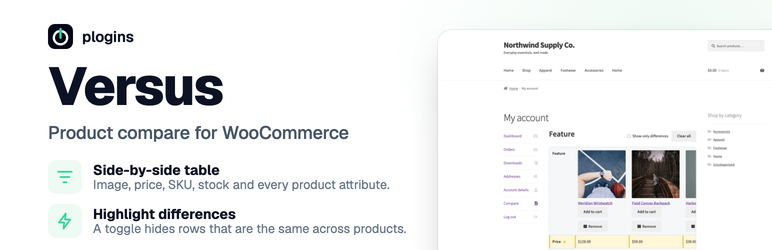
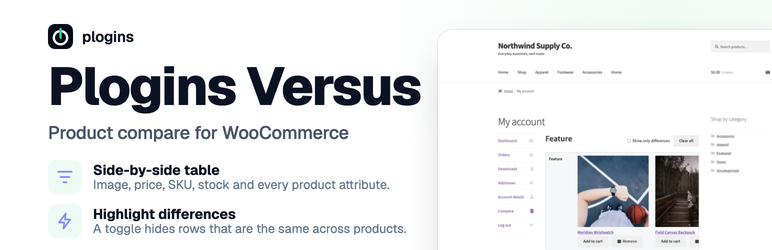
release: 1.0.8, approved on wordpress.org as plogins-versus
Merged next into main now that the directory has accepted the plugin, per the
policy that main carries the reviewed MVP until then. The merge was a no-op in
content: the PRO upsell commit on next had already been superseded.

Individual icon and banner rather than the shared template mark, fresh
screenshots showing a SKU and a stock difference instead of two empty rows, all
readme URLs turned into real links because wordpress.org does not autolink a
bare one, and Tested up to raised to 7.1 now that it is the stable release.

diff --git a/plogins-versus.php b/plogins-versus.php
@@ -3,7 +3,7 @@
  * Plugin Name:       Plogins Versus - Product Compare for WooCommerce
  * Plugin URI:        https://plogins.com/plogins-versus/
  * Description:        Fast, accessible product comparison for WooCommerce - compare table with difference highlighting, guest + customer lists, no jQuery
- * Version:           1.0.7
+ * Version:           1.0.8
  * Requires at least: 6.5
  * Requires PHP:      8.1
  * Requires Plugins:  woocommerce
@@ -25,7 +25,7 @@ namespace Versus;
 
 defined('ABSPATH') || exit;
 
-const VERSION     = '1.0.7';
+const VERSION     = '1.0.8';
 const PLUGIN_FILE = __FILE__;
 
 define('VERSUS_DIR', plugin_dir_path(__FILE__));
